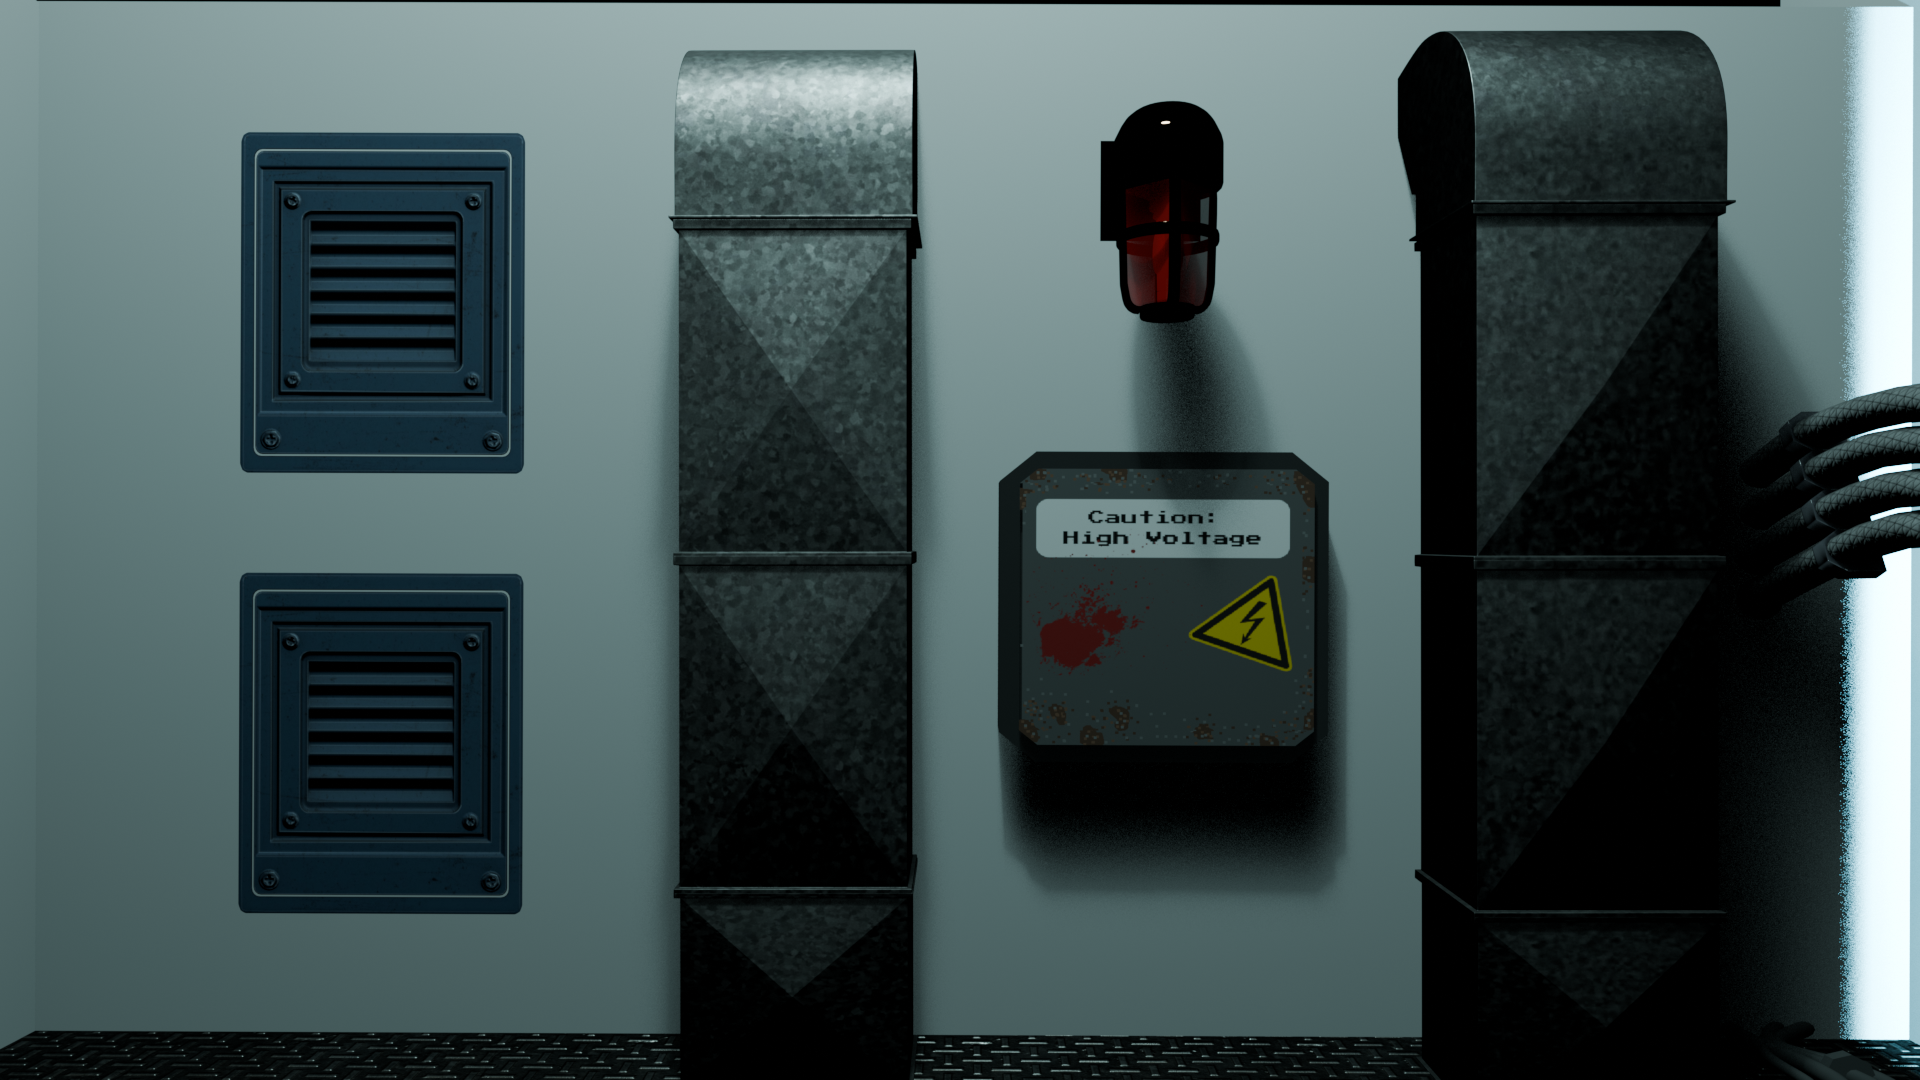
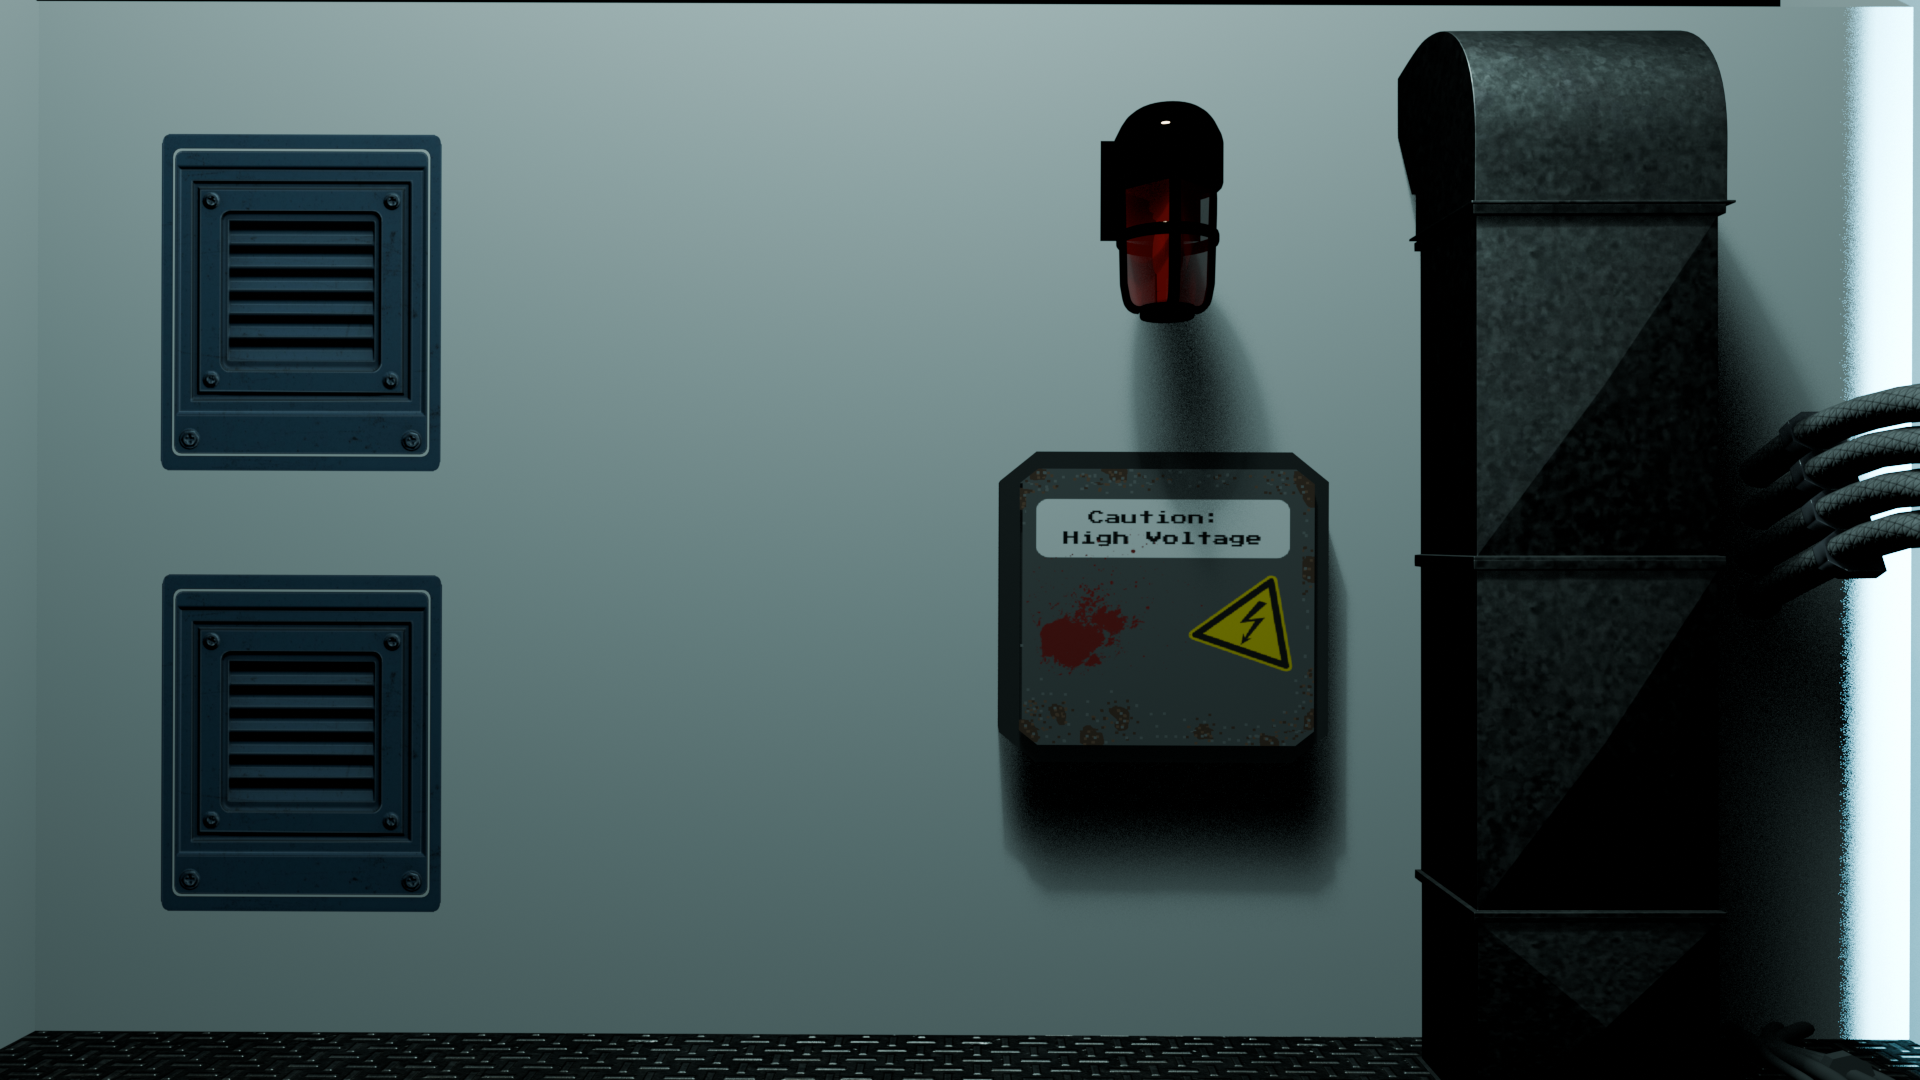
tweaked asset for engine room door

diff --git a/src/views/reactorRoom/reactorStartup.js b/src/views/reactorRoom/reactorStartup.js
@@ -6,7 +6,7 @@ class ReactorStartupView extends View {
 
         this.textHandler = new TextNotificationHandler(0.5, 1); 
 
-        this.door = new StandaloneSlidingDoor(2, 2.7, 1, () => {}, true, 2, null, 7, 0, () => true);
+        this.door = new StandaloneSlidingDoor(4.75, 2.6, 1, () => {}, true, 2, null, 7, 0, () => true);
 
         // reactor simon-says color zones
         this.colors = [
